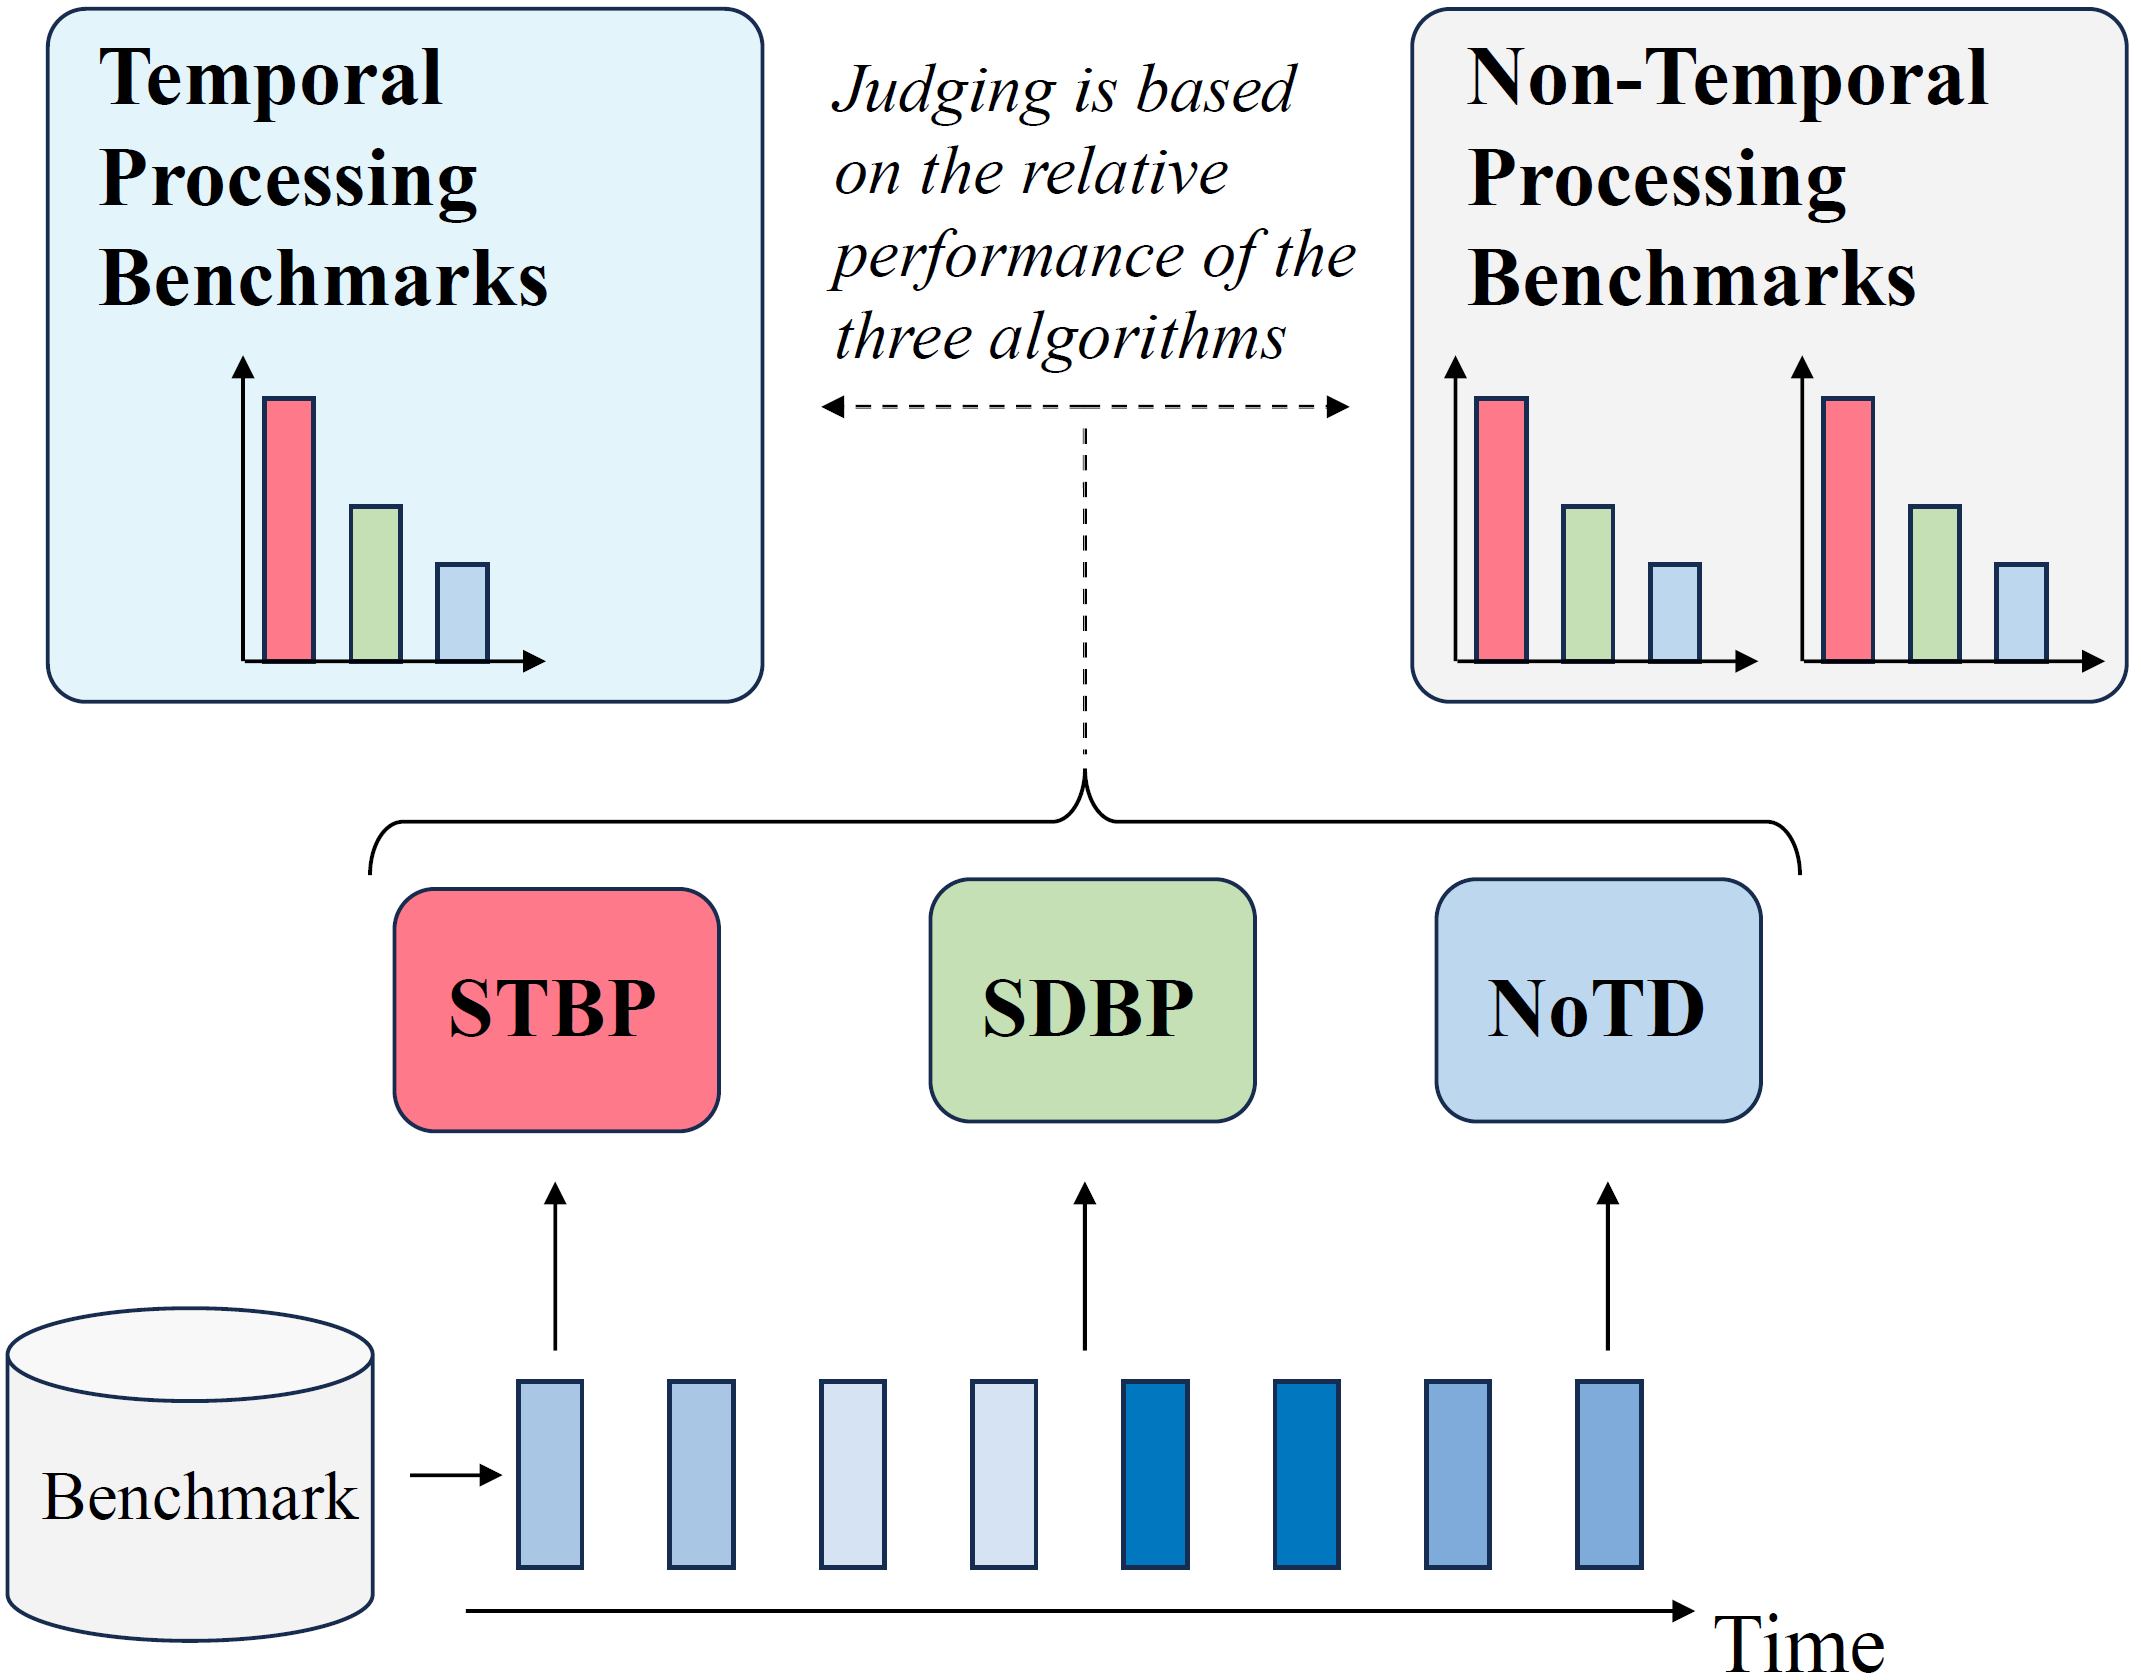
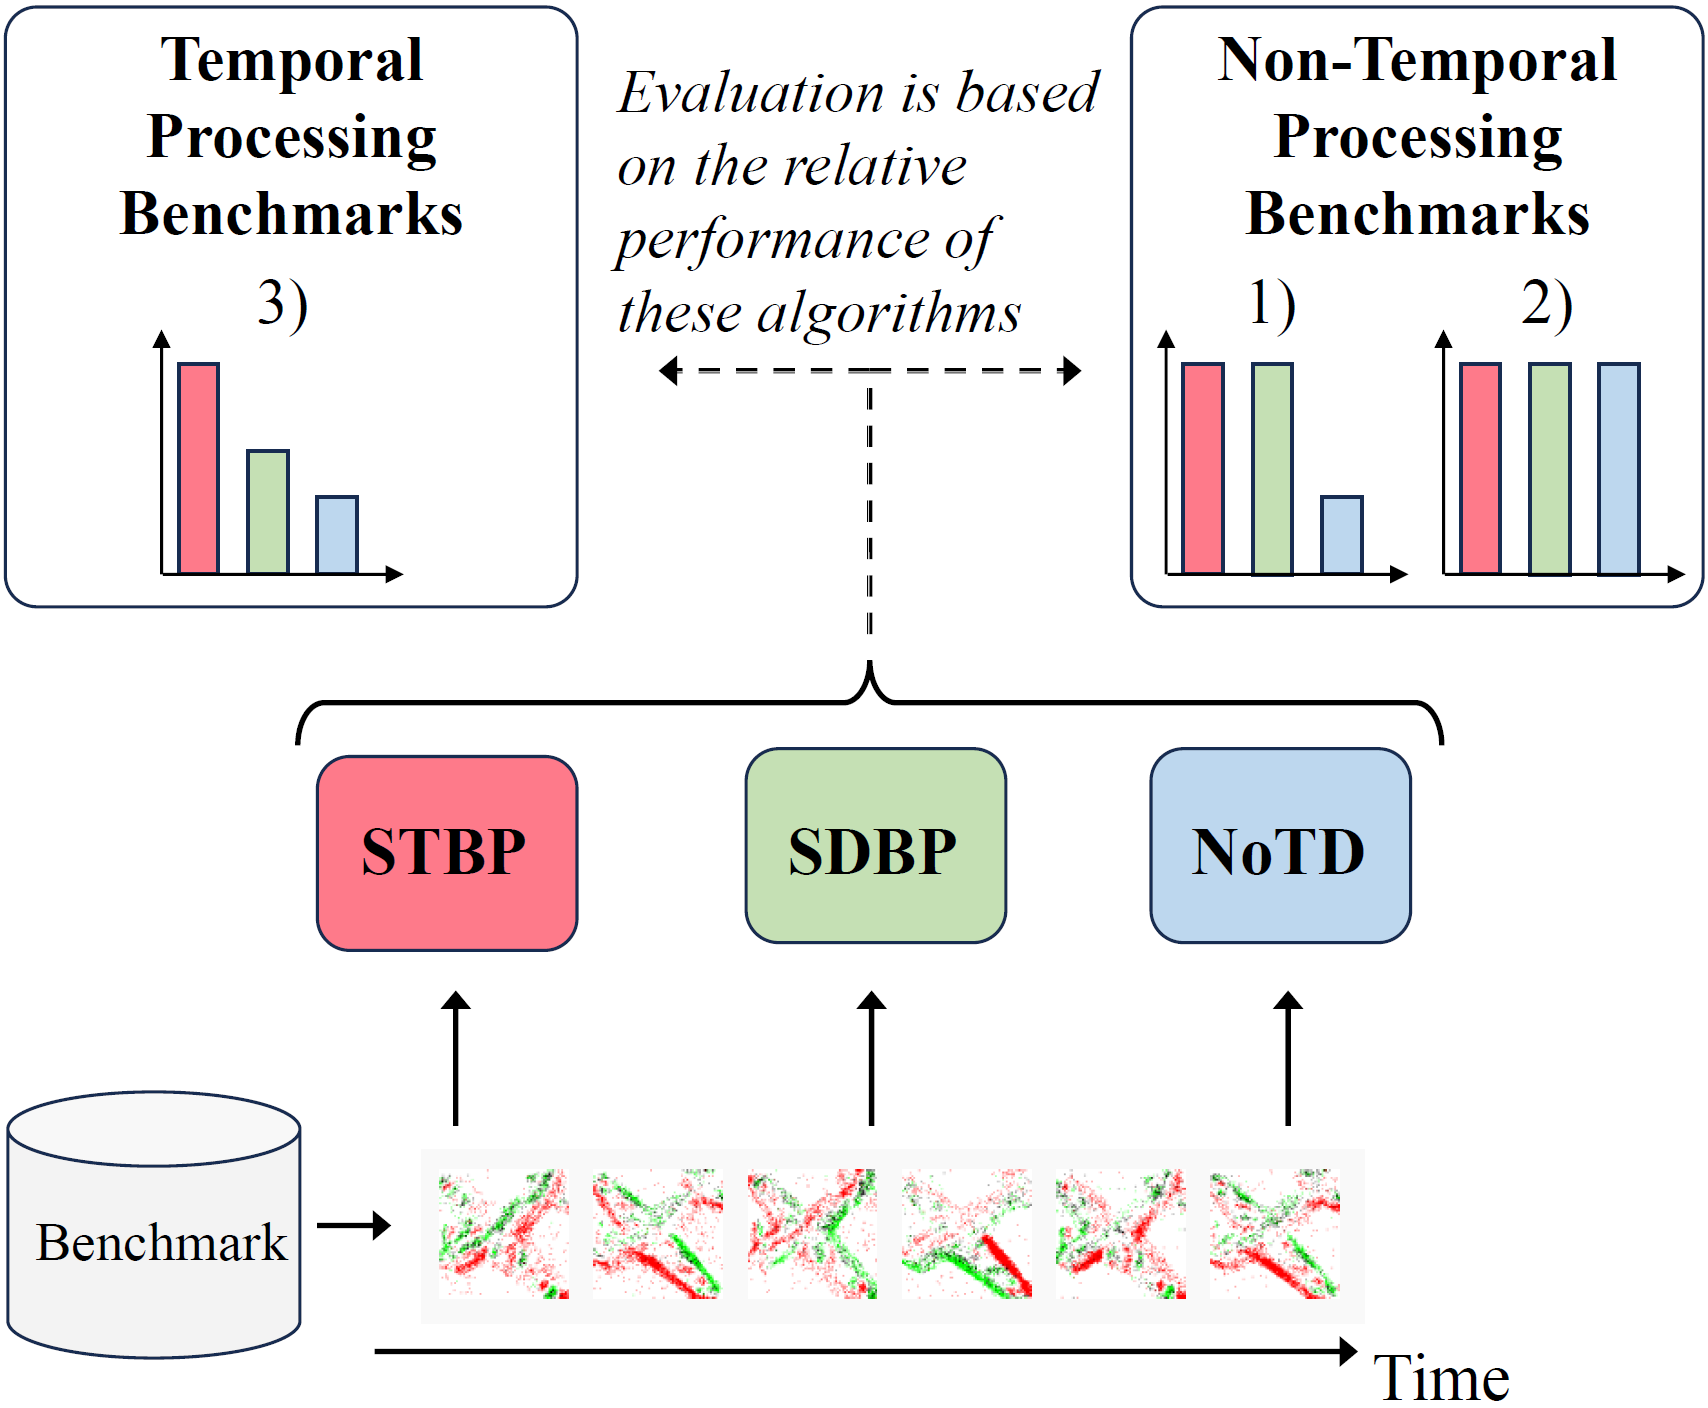
Update introduction section of README.

Changed region(s): [[0.0, 0.0, 1.0, 1.0], [0.031, 0.9688, 0.1241, 1.0], [0.031, 0.75, 0.1241, 0.7812]]

diff --git a/README.md b/README.md
@@ -13,13 +13,12 @@
 </p>
 
 
-This open-source initiative is based on our research, which emphasizes the importance of a more comprehensive evaluation of temporal processing in Spiking Neural Networks (SNNs). To explore more possibilities with SNNs in handling **extended temporal sequences**, we introduce the **Segregated Temporal Probe**, a method developed to isolate the influence of temporal processing functions, enabling a more accurate assessment of the ability of SNNs to manage long-term temporal dependencies. 
 
-Notably, the Segregated Temporal Probe incorporates three learning algorithms: **STBP**, **SDBP**, and **NoTD**, that enhance the evaluation of Spiking Neural Networks in temporal processing. Furthermore, three benchmark suites—**PTB**, **PS-MNIST**, and **Binary Adding**—have been adopted to validate the feasibility of this method. (See <u>the full paper</u> for details.)
+This open-source initiative is based on our research, which emphasizes the importance of a more comprehensive evaluation of temporal processing in Spiking Neural Networks (SNNs). To explore more possibilities with SNNs in handling **extended temporal sequences**, we introduce the **Segregated Temporal Probe (STP)**, a method developed to isolate the influence of temporal processing functions, enabling a more accurate assessment of the ability of SNNs to manage long-term temporal dependencies. 
 
-Additionally, our project features a **brain-inspired modeling framework** complete with acceleration modules, which streamlines both the definition and application of models. Furthermore, we provide detailed examples to assist users in utilizing our framework effectively.
+Notably, STP incorporates three learning algorithms: **Spatio-Temporal Backpropagation (STBP)**, **Spatial Domain Backpropagation (SDBP)**, and **No Temporal Domain (NoTD)**, enhancing the evaluation of SNNs in temporal processing. Additionally, three benchmark suites—**Penn Treebank (PTB)**, **Permuted-Sequential MNIST (PS-MNIST)**, and **Binary Adding**—have been adopted to validate the feasibility of these methods. Alongside these benchmarks, the initiative also provides a **brain-inspired modeling framework** that streamlines the definition and application of models, offering detailed examples to assist users effectively. (See <u>the full paper</u> for details.)
 
-Beyond the core framework, we also welcome contributors to enrich our benchmark by sharing their expertise on **brain-inspired modules**, **datasets**, and **other related resources**.
+To further the development of this initiative, we welcome contributors to share their expertise on **brain-inspired modules**, **datasets**, and **other related resources** that are instrumental for temporal processing.
 
 ## Overview
 
